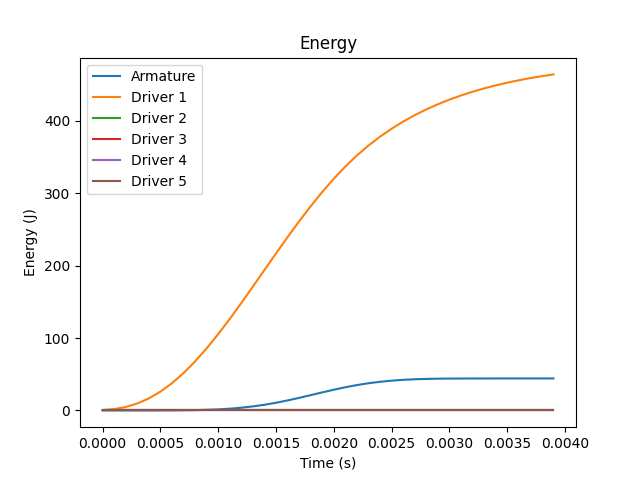
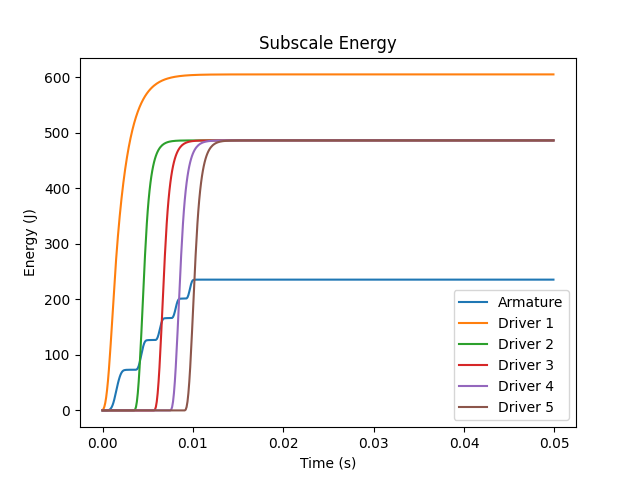
Updates

diff --git a/Simulation/main_conceptual.py b/Simulation/main_conceptual.py
@@ -27,35 +27,64 @@ copper = parameters.copper
 #     stage_list.append(stages[i])
 
 
-
-stage_count = 20
-stage_list = []
-
 # Material, inner radius, length, layers, wire diameter:
-armature = classes.Coil(copper, 0.33, 1, 1, 0.025)
+armature = classes.Coil(copper, 0.33, 2, 1, 0.05)
 # Coil, initial position, mass
-projectile = classes.Projectile(armature, 0.05, 1250)
+projectile = classes.Projectile(armature, 0.1, 1250)
 
-# Material, inner radius, length, layers, wire diameter:
-drivers = [classes.Coil(copper, 0.35, 1, 1, 0.025) for i in range(stage_count)]
-# Coil, position, trigger position, capacitance, charge voltage
-stages = [classes.Stage(drivers[j], 2.0 * j, 1.95 * j, 0.02, 50000) for j in range(stage_count)]
+stage_list = []
+spacing = 3
+t_spacing = 3
 
-stages[0].capacitance = 0.075
-stages[0].layers = 3
-stages[1].capacitance = 0.05
-stages[1].layers = 2
-
-for i in range(stage_count):
+count1 = 1
+count2 = 4
+count3 = 5
+count4 = 10
+stage_count = count1 + count2 + count3 + count4
+drivers = []
+stages = []
+for i in range(count1):
+    # Material, inner radius, length, layers, wire diameter:
+    drivers.append(classes.Coil(copper, 0.35, 2, 4, 0.05))
+    # Coil, position, trigger position, capacitance, charge voltage
+    stages.append(classes.Stage(drivers[i], spacing * i, t_spacing * i, 0.05, 200000))
     stage_list.append(stages[i])
+
+for i in range(count2):
+    j = i + count1
+    # Material, inner radius, length, layers, wire diameter:
+    drivers.append(classes.Coil(copper, 0.35, 2, 2, 0.05))
+    # Coil, position, trigger position, capacitance, charge voltage
+    stages.append(classes.Stage(drivers[j], spacing * j, t_spacing * j, 0.01 - i * 0.0005, 200000))
+    stage_list.append(stages[j])
+
+for i in range(count3):
+    j = i + count1 + count2
+    # Material, inner radius, length, layers, wire diameter:
+    drivers.append(classes.Coil(copper, 0.35, 2, 1, 0.05))
+    # Coil, position, trigger position, capacitance, charge voltage
+    stages.append(classes.Stage(drivers[j], spacing * j, t_spacing * j, 0.01 - i * 0.001, 200000))
+    stage_list.append(stages[j])
+
+for i in range(count4):
+    j = i + count1 + count2 + count3
+    # Material, inner radius, length, layers, wire diameter:
+    drivers.append(classes.Coil(copper, 0.35, 2, 1, 0.05))
+    # Coil, position, trigger position, capacitance, charge voltage
+    stages.append(classes.Stage(drivers[j], spacing * j, t_spacing * j, 0.015 - i * 0.001, 200000))
+    stage_list.append(stages[j])
+
+
+
+
 
 
 efficiency = []
 driver_energy_sum = 0.
 driver_total_energy = []
 
-runtime = 0.25
-timestep = 0.001
+runtime = 0.3
+timestep = 0.0005
 
 for step in np.arange(0, runtime, timestep):
     # Timestep, driver list, projectile

diff --git a/Simulation/main.py b/Simulation/main.py
@@ -18,7 +18,7 @@ driver5 = classes.Coil(copper, 0.015, 0.05, 2, 0.00129)
 
 # Stages
 # Coil, position, trigger position, capacitance, charge voltage
-stage1 = classes.Stage(driver1, 0.0, 0.0, 0.0024 * 2, 450)
+stage1 = classes.Stage(driver1, 0.0, 0.0, 0.003 * 2, 450)
 stage2 = classes.Stage(driver2, 0.1, 0.1, 0.0024 * 2, 450)
 stage3 = classes.Stage(driver3, 0.2, 0.2, 0.0024 * 2, 450)
 stage4 = classes.Stage(driver4, 0.3, 0.3, 0.0024 * 2, 450)
@@ -31,7 +31,7 @@ projectile = classes.Projectile(armature, 0.01, 0.1)
 stage_list = [stage1, stage2, stage3, stage4, stage5]
 efficiency = []
 
-runtime = 0.004
+runtime = 0.05
 timestep = 0.0001
 
 for step in np.arange(0, runtime, timestep):
@@ -50,19 +50,19 @@ time = np.arange(0, runtime, timestep)
 
 figv, v = plt.subplots()
 v.plot(time, projectile.velocity_list)
-v.set(xlabel='Time (s)', ylabel='Velocity (m/s)', title='Projectile Velocity')
+v.set(xlabel='Time (s)', ylabel='Velocity (m/s)', title='Subscale Projectile Velocity')
 figv.savefig("vel.png")
 
 figa, p = plt.subplots()
 p.plot(time, projectile.acceleration_list)
-p.set(xlabel='Time (s)', ylabel='Acceleration (m/s^2)', title='Projectile Acceleration')
+p.set(xlabel='Time (s)', ylabel='Acceleration (m/s^2)', title='Subscale Projectile Acceleration')
 figa.savefig("accel.png")
 
 figi, i = plt.subplots()
 i.plot(time, projectile.coil.currents_list)
 for stage in range(len(stage_list)):
     i.plot(time, stage_list[stage].coil.currents_list)
-i.set(xlabel='Time (s)', ylabel='Currents (A)', title='Currents')
+i.set(xlabel='Time (s)', ylabel='Currents (A)', title='Subscale Currents')
 i.legend(['Armature', 'Driver 1', 'Driver 2', 'Driver 3', 'Driver 4', 'Driver 5'])
 figi.savefig("currents.png")
 
@@ -76,14 +76,14 @@ figi.savefig("currents.png")
 
 fign, n = plt.subplots()
 n.plot(time, efficiency)
-n.set(xlabel='Time (s)', ylabel='Efficiency', title='Coilgun Efficiency')
+n.set(xlabel='Time (s)', ylabel='Efficiency', title='Subscale Coilgun Efficiency')
 fign.savefig("efficiency.png")
 
 fige, e = plt.subplots()
 e.plot(time, projectile.coil.energy_list)
 for stage in range(len(stage_list)):
     e.plot(time, stage_list[stage].coil.energy_list)
-e.set(xlabel='Time (s)', ylabel='Energy (J)', title='Energy')
+e.set(xlabel='Time (s)', ylabel='Energy (J)', title='Subscale Energy')
 e.legend(['Armature', 'Driver 1', 'Driver 2', 'Driver 3', 'Driver 4', 'Driver 5'])
 fige.savefig("energy.png")
 

diff --git a/Simulation/methods.py b/Simulation/methods.py
@@ -26,24 +26,30 @@ def mutual_inductance(stage, projectile):
     return M
 
 
-def solve_driver_current(stage, driver_step):
+def solve_driver_current(stage, projectile, driver_step):
     driver = stage.coil
+    armature = projectile.coil
 
     # driver.current = stage.initial_voltage / driver.inductance * driver_step * \
     #                       pow(math.e, -driver.resistance / (2 * driver.inductance) * driver_step)
 
+    # M = mutual_inductance(projectile, stage)
+    # subtraction = M / driver.inductance * armature.current
+    subtraction = 0
+
     # Natural response frequency
     omega = math.sqrt(1/(driver.inductance * stage.capacitance) - pow(driver.resistance, 2) / (4 * pow(driver.inductance, 2)))
+    driver.tau = driver.inductance / driver.resistance
 
     # Diode becomes active when capacitor voltage reaches 0
     if(driver.voltage < 0):
         # RL current model
-        driver.current = driver.peak_current * pow(math.e, -1 / driver.tau * (driver_step - driver.diode_step))
+        driver.current = driver.peak_current * pow(math.e, -1 / driver.tau * (driver_step - driver.diode_step)) - subtraction
         driver.voltage = -0.1
     else:
         # RLC current model
         driver.current = (stage.capacitance * stage.initial_voltage * pow(math.e, -driver_step/(2 * driver.tau)) *
-                          (4 * pow(omega, 2) + pow(1 / driver.tau, 2)) * math.sin(driver_step * omega)) / (4 * omega)
+                          (4 * pow(omega, 2) + pow(1 / driver.tau, 2)) * math.sin(driver_step * omega)) / (4 * omega) - subtraction
 
         # Capacitor voltage
         driver.voltage = stage.initial_voltage * pow(math.e, -driver_step/(2 * driver.tau)) * \
@@ -74,7 +80,7 @@ def solve_stresses(coil):
 
     for r in np.arange(a1, a2, w):
         rho = r / a1
-        J = coil.current / (coil.wire_area * coil.turns / coil.layers)
+        J = coil.current / coil.wire_area
         B1 = parameters.mu0 * J * a1 * (alpha - 1)
         B2 = 0
 

diff --git a/Simulation/run_step.py b/Simulation/run_step.py
@@ -19,13 +19,13 @@ def run_turn(timestep, stage_list, projectile):
         driver = stage.coil
 
         methods.increment_time(timestep, driver)
-        methods.solve_driver_current(stage, driver.time_on)
+        methods.solve_driver_current(stage, projectile, driver.time_on)
         methods.solve_thermals(driver, timestep)
         methods.solve_energy(driver, timestep)
 
         armature.current += methods.solve_armature_current(stage, projectile, armature.time_on)
 
-        methods.solve_stresses(driver)
+        # methods.solve_stresses(driver)
 
         force += methods.magnetic_force(stage, projectile)
 
